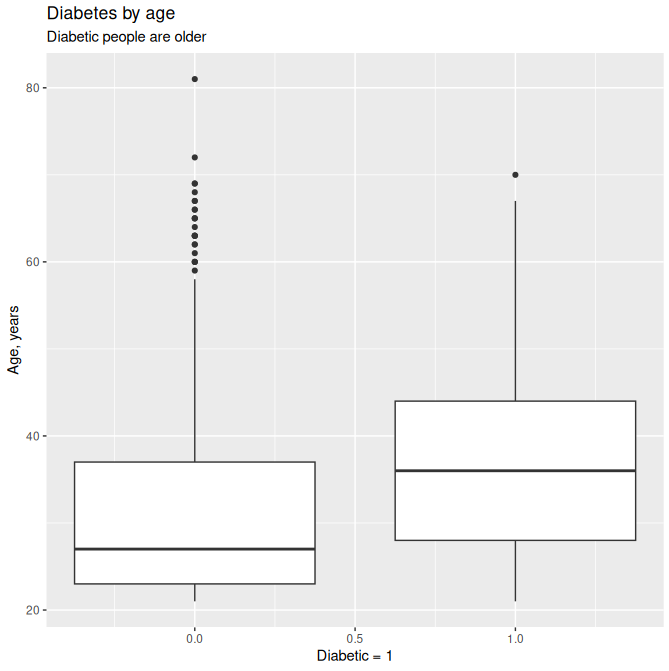
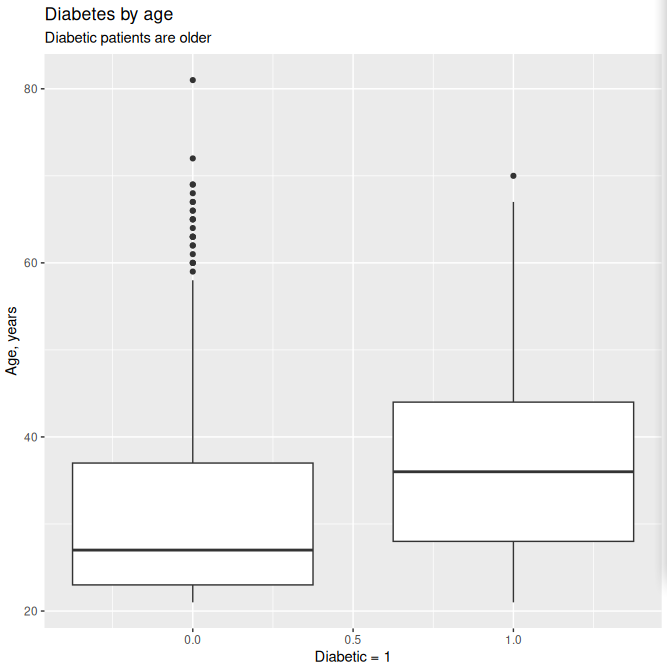
revised assignment

diff --git a/assignment1/assignment1.md b/assignment1/assignment1.md
@@ -8,21 +8,43 @@ The effects of diet on the weight of chicks during early development was investi
 
 There are 578 observations and 4 variables in the dataset:
 
-- There are 2 numeric variables, namely "weight" and "Time". "weight" contains the measured chick's weight in grams. "Time" contains the age of the chick in days since birth.
+- There are 2 numeric variables, namely weight and Time. Weight contains the measured chick's weight in grams. Time contains the age of the chick in days since birth.
 
-- There are 2 factor variables, namely "Chick" and "Diet". "Chick" is an ordered factor with 50 levels, that uniquely identifies each chick with an integer. The factors are ordered by their final weight amongst the other chicks in the same diet group, from lightest to heaviest (note that the factor number does not correspond to it's order). "Diet" is a factor containing 4 levels, specifying the type of diet the chick received.
+- There are 2 nominal variables, namely Chick and Diet. Chick is an ordered factor with 50 levels, that uniquely identifies each chick with an integer. The factors are ordered by their final weight amongst the other chicks in the same diet group, from lightest to heaviest (note that the factor number does not correspond to the chick's order). Diet is a factor containing 4 levels, specifying the type of diet the chick received.
 
 ### 2. _Look at carefully the variable and discuss any inconsistencies dataset has. Explain your reasoning and the steps you have taken._
 
-A few chicks were only measured up to a certain day, and are missing measurement entries, namely chicks 8, 15, 16, 18, and 44. This is an obvious data inconsistency, as these cases are missing observations, and can be explained by chicks dying during the experiment.
+```
+> attach(ChickWeight)
+> table(Time)
+Time
+ 0  2  4  6  8 10 12 14 16 18 20 21 
+50 50 49 49 49 49 49 48 47 47 46 45
+> sort(tapply(Time, Chick, max))
+18 16 15 44  8 13  9 20 10 17 19  4  6 11  3  1 12  2  5 14  7 24 30 22 23 27 
+ 2 12 14 18 20 21 21 21 21 21 21 21 21 21 21 21 21 21 21 21 21 21 21 21 21 21 
+28 26 25 29 21 33 37 36 31 39 38 32 40 34 35 45 43 41 47 49 46 50 42 48 
+21 21 21 21 21 21 21 21 21 21 21 21 21 21 21 21 21 21 21 21 21 21 21 21
+```
 
-These cases should still be included in the analysis, since there is no inaccuracies in the data present in these cases, and they demonstrate an important event in the experiment.
+A few chicks were only measured up to a certain day, and are missing measurement entries, namely chicks 8, 15, 16, 18, and 44. Chick 18 was only measured up to day 2, chick 16 day 12, chick 15 day 14, chick 44 day 18, and chick 8 day 20. This is an obvious data inconsistency, as these cases are missing observations, and can be explained by chicks dying during the experiment.
 
-Another data inconsistency is the time intervals of the experiment, with the final measurement taking place on day 21, leaving a 1 day gap between the previous measurement, whereas all other measurements have a consistent 2 day interval.
+These cases should still be included in the analysis, since they demonstrate an important event in the experiment, and there are no inaccuracies in this incomplete data.
 
-Furthermore, the varible naming scheme is inconsistent, with the weight variable name being fully lowercase, while the other variables are sentence case (Time, Chick, Diet).
+```
+> which(duplicated(ChickWeight))
+integer(0)
+> nrow(ChickWeight) - nrow(ChickWeight[complete.cases(ChickWeight),])
+[1] 0
+```
+No missing data or duplicate records exist.
 
-Other aspects of the dataset were validated, such as Time recordings being integers between 0 and 21, even numbers (unless 21), and no records existing with duplicate Time and Chick measurements. The dataset was also scanned for any fully duplicate records, yielding no duplicates. The minimum and maximum weights of 35g and 375g respectively are plausible weights of a chick. Checking for incomplete cases yielded no results.
+```
+> summary(weight)
+   Min. 1st Qu.  Median    Mean 3rd Qu.    Max. 
+   35.0    63.0   103.0   121.8   163.8   373.0
+```
+The minimum and maximum weights of 35g and 375g respectively are plausible weights of a chick. The distribution of weights appears natural.
 
 ### 3. _Produce appropriate summary statistics and graphs to see any association between variables and discuss._
 
@@ -38,6 +60,7 @@ Other aspects of the dataset were validated, such as Time recordings being integ
                                  (Other):506
 ```
 ```
+> require("psych")
 > describeBy(weight, Diet)
 
  Descriptive statistics by group 
@@ -57,31 +80,41 @@ group: 4
    vars   n   mean    sd median trimmed   mad min max range skew kurtosis   se
 X1    1 118 135.26 68.83  129.5   131.2 84.51  39 322   283  0.4    -0.67 6.34
 ```
+```
+> require("ggplot2")
+> ggplot(ChickWeight, aes(x = Time, y = weight, group = Chick)) + 
+        geom_line(linetype = 1, lwd = 1.1) + 
+        facet_wrap(~ Diet, nrow=4) + 
+        ggtitle("Chick weights over time by diet") +
+        xlab("Time, days since birth") +
+        ylab("Weight, grams")
+```
 
 ![](./plots/Q1_weight_line_plot.png)
 
-The weight of chicks in the dataset ranges from 35g to 373g, and is positively skewed, with a median chick weight of 103g. The variance in Chick weights is negligible towards day 0, but increases dramatically over time as the chicks age, across all diet groups.
+The weight of chicks in the dataset ranges from 35g to 373g, with a median chick weight of 103g. The variance in Chick weights is low towards day 0, yet increases dramatically over time as the chicks age, across all diet groups, resulting a large variance in weights towards the end of the experiment.
 
-There is an indication that "Diet" has an effect on chick's weight during early development. We can deduce that chicks eating Diet 1 tended to be the most malnourished, with the lowest median weight of 88g, and 4 of the 5 deaths ocurring in chicks from this group. Diet 2 chicks were also typically lighter than groups 3 and 4, with a median weight of 104.5g. Numerous chicks in this group lost weight during the experiment, with one chick maintaining a very low weight of approximately 75g.
+Chicks eating Diet 1 tended to be the most malnourished, with the lowest median weight of 88g, and 4 of the 5 deaths ocurring in chicks from this group. Diet 2 chicks were also typically lighter than groups 3 and 4, with a median weight of 104.5g. Numerous chicks in this group lost weight during the experiment, with one chick maintaining a very low weight of approximately 75g.
 
-Conversely, chicks eating Diet 3 or 4 tended to gain the most weight during the experiment, with the highest median weights (125.5g and 129.5g respectively). Despite diet 4 having the highest median weight, a chick from this group died late in the experiment.
+Conversely, chicks eating Diet 3 or 4 tended to gain the most weight during the experiment, with the highest median weights (125.5g and 129.5g respectively). Despite Diet 4 having the highest median weight, chick  44 from this group died late in the experiment, with the last observation of this chick occuring on day 18.
 
 ## Question 2
 
 ### 1. _Read the dataset in R, obtain the structure of the dataset and discuss._
 
 ```
-> str(cleaning)
+> cleaning <- read.csv("Cleaning.csv")
+str(cleaning)
 'data.frame':   101 obs. of  16 variables:
  $ ID     : int  1 2 3 4 5 6 7 8 9 10 ...
  $ AGE    : int  18 23 39 24 27 26 26 26 28 24 ...
- $ GENDER : Factor w/ 2 levels "Female","Male": 2 1 2 2 2 2 1 1 2 1 ...
+ $ GENDER : chr  "Male" "Female" "Male" "Male" ...
  $ YRSTUDY: int  3 7 10 6 16 16 10 8 9 6 ...
  $ Q1     : int  8 15 9 10 10 10 14 12 9 10 ...
  $ Q2     : int  14 21 12 15 20 16 18 17 15 13 ...
  $ Q3     : int  16 20 14 15 21 16 16 11 21 23 ...
- $ Q4     : int  19 23 12 18 24 18 16 9 23 24 ...
- $ Q5     : int  18 19 22 17 25 18 10 17 24 19 ...
+ $ Q4     : chr  "19" "23" "12" "18" ...
+ $ Q5     : chr  "18" "19" "22" "17" ...
  $ Q6     : int  14 16 20 15 23 18 11 10 23 19 ...
  $ Q7     : int  21 20 16 20 29 20 15 18 21 24 ...
  $ Q8     : int  27 22 22 29 26 27 27 21 23 23 ...
@@ -90,50 +123,68 @@ Conversely, chicks eating Diet 3 or 4 tended to gain the most weight during the 
  $ Q11    : int  22 18 23 27 21 25 24 24 26 19 ...
  $ Q12    : int  14 17 15 13 24 14 13 10 22 18 ...
 ```
-The above dataset describes student scores ranked on a scale of 0 to 40 on a series of 12 questions, along with their age, gender, and years of education. The effects of years of study on each question's score varies by age and gender.
+The above dataset describes student scores on a series of 12 questions, on a scale of 0 to 40, along with their age, gender, and years of education. The effects of years of study on each question's score varies by age and gender.
 
 There are 101 observations and 16 variables in the dataset:
 
-- There are 15 numeric variables, namely "ID", "AGE", "YRSTUDY", "Q1", "Q2", "Q3", "Q4", "Q5", "Q6", "Q7", "Q8", "Q9", "Q10", "Q11", and "Q12". "ID" contains a number that identifies the student by an integer. "AGE" contains the student's age in years. "YRSTUDY" contains the current year of education the student is studying in. "Q1" to "Q12" contains the student's received score on the relevant question, on a scale from 0 to 40.
+- There are 13 numeric variables, namely ID, AGE, YRSTUDY, Q1 to Q3, and Q6 to Q12. ID contains a number that identifies the student by an integer. AGE contains the student's age in years. YRSTUDY contains the current year of education the student is studying in. Q1 to Q3 and Q6 to Q12 contains the student's received score on the relevant question, on a scale from 0 to 40.
 
-- There is 1 factor variable, namely "GENDER". This is a factor with two levels, "Male" and "Female", describing the student's gender.
+- There are 3 nominal variables, namely GENDER, Q4, and Q5. GENDER contains two values, namely "Male" and "Female". Q4 and Q5 contain student scores on these questions ranked on a scale of 0 to 40.
 
 ### 2. _Discuss and report any missing values and unusual characters in the dataset._
 
+There is a problem with how Q4 and Q5 were read into the dataframe, as they should be numeric variables instead of nominal. We can search for unexpected characters (not digits) in these questions:
+
+```
+> attach(cleaning)
+> Q4[grep("[^0-9]", Q4)]
+[1] "#NA"
+> Q5[grep("[^0-9]", Q5)]
+[1] "#NA"
+```
+This demonstrates the problem, there are unexpected character values, ("#NA") which cause these variables to be intepreted as character values instead. This can be remedied by converting these scores to integers, whilst converting any values containing special characters to NA (missing values):
+
+```
+> cleaning$Q4 <- as.integer(ifelse(Q4 == "#NA", NA, Q4))
+> cleaning$Q5 <- as.integer(ifelse(Q5 == "#NA", NA, Q5))
+> detach(cleaning)
+attach(cleaning)
+```
+
 ```
 > summary(cleaning)
-       ID           AGE           GENDER      YRSTUDY             Q1       
- Min.   :  1   Min.   :18.00   Female:69   Min.   : 0.000   Min.   : 7.00  
- 1st Qu.: 26   1st Qu.:19.00   Male  :32   1st Qu.: 3.000   1st Qu.: 9.00  
- Median : 51   Median :23.00               Median : 6.000   Median :10.00  
- Mean   : 51   Mean   :23.35               Mean   : 6.634   Mean   :10.94  
- 3rd Qu.: 76   3rd Qu.:26.00               3rd Qu.: 9.000   3rd Qu.:12.00  
- Max.   :101   Max.   :39.00               Max.   :20.000   Max.   :19.00  
-                                                                           
-       Q2              Q3              Q4              Q5        
- Min.   : 9.00   Min.   :10.00   Min.   : 9.00   Min.   : 10.00  
- 1st Qu.:13.00   1st Qu.:15.00   1st Qu.:15.75   1st Qu.: 15.00  
- Median :15.00   Median :18.00   Median :20.00   Median : 18.00  
- Mean   :15.61   Mean   :18.02   Mean   :19.11   Mean   : 19.23  
- 3rd Qu.:19.00   3rd Qu.:21.00   3rd Qu.:23.00   3rd Qu.: 21.00  
- Max.   :28.00   Max.   :30.00   Max.   :30.00   Max.   :120.00  
- NA's   :1                       NA's   :1       NA's   :1       
-       Q6              Q7              Q8              Q9       
- Min.   : 9.00   Min.   :13.00   Min.   :19.00   Min.   :16.00  
- 1st Qu.:13.00   1st Qu.:16.00   1st Qu.:24.00   1st Qu.:24.00  
- Median :16.00   Median :20.00   Median :26.00   Median :26.00  
- Mean   :16.19   Mean   :20.29   Mean   :25.45   Mean   :25.59  
- 3rd Qu.:19.00   3rd Qu.:22.00   3rd Qu.:28.00   3rd Qu.:27.00  
- Max.   :26.00   Max.   :52.00   Max.   :32.00   Max.   :33.00  
-                                                                
-      Q10             Q11             Q12       
- Min.   :22.00   Min.   :13.00   Min.   :10.00  
- 1st Qu.:23.00   1st Qu.:21.00   1st Qu.:15.00  
- Median :24.00   Median :23.00   Median :17.50  
- Mean   :23.73   Mean   :23.01   Mean   :17.61  
- 3rd Qu.:25.00   3rd Qu.:25.00   3rd Qu.:20.00  
- Max.   :26.00   Max.   :52.00   Max.   :26.00  
- NA's   :1       NA's   :1       NA's   :1
+       ID           AGE           GENDER             YRSTUDY      
+ Min.   :  1   Min.   :18.00   Length:101         Min.   : 0.000  
+ 1st Qu.: 26   1st Qu.:19.00   Class :character   1st Qu.: 3.000  
+ Median : 51   Median :23.00   Mode  :character   Median : 6.000  
+ Mean   : 51   Mean   :23.35                      Mean   : 6.634  
+ 3rd Qu.: 76   3rd Qu.:26.00                      3rd Qu.: 9.000  
+ Max.   :101   Max.   :39.00                      Max.   :20.000  
+                                                                  
+       Q1              Q2              Q3              Q4       
+ Min.   : 7.00   Min.   : 9.00   Min.   :10.00   Min.   : 9.00  
+ 1st Qu.: 9.00   1st Qu.:13.00   1st Qu.:15.00   1st Qu.:15.75  
+ Median :10.00   Median :15.00   Median :18.00   Median :20.00  
+ Mean   :10.94   Mean   :15.61   Mean   :18.02   Mean   :19.11  
+ 3rd Qu.:12.00   3rd Qu.:19.00   3rd Qu.:21.00   3rd Qu.:23.00  
+ Max.   :19.00   Max.   :28.00   Max.   :30.00   Max.   :30.00  
+                 NA's   :1                       NA's   :1      
+       Q5               Q6              Q7              Q8       
+ Min.   : 10.00   Min.   : 9.00   Min.   :13.00   Min.   :19.00  
+ 1st Qu.: 15.00   1st Qu.:13.00   1st Qu.:16.00   1st Qu.:24.00  
+ Median : 18.00   Median :16.00   Median :20.00   Median :26.00  
+ Mean   : 19.23   Mean   :16.19   Mean   :20.29   Mean   :25.45  
+ 3rd Qu.: 21.00   3rd Qu.:19.00   3rd Qu.:22.00   3rd Qu.:28.00  
+ Max.   :120.00   Max.   :26.00   Max.   :52.00   Max.   :32.00  
+ NA's   :1                                                       
+       Q9             Q10             Q11             Q12       
+ Min.   :16.00   Min.   :22.00   Min.   :13.00   Min.   :10.00  
+ 1st Qu.:24.00   1st Qu.:23.00   1st Qu.:21.00   1st Qu.:15.00  
+ Median :26.00   Median :24.00   Median :23.00   Median :17.50  
+ Mean   :25.59   Mean   :23.73   Mean   :23.01   Mean   :17.61  
+ 3rd Qu.:27.00   3rd Qu.:25.00   3rd Qu.:25.00   3rd Qu.:20.00  
+ Max.   :33.00   Max.   :26.00   Max.   :52.00   Max.   :26.00  
+                 NA's   :1       NA's   :1       NA's   :1 
 ```
 
 ```
@@ -144,15 +195,15 @@ There are 101 observations and 16 variables in the dataset:
 89 89  24   Male       6 10 NA 11 12 13 15 16 26 21  22  23  13
 93 93  27 Female      11  7  9 12 NA 15 13 15 25 24  NA  22  15
 ```
-
-"Q2", "Q4", "Q5", "Q10", "Q11", and "Q12" contain missing values, totalling 6 NA values.
-
 ```
 > apply(cleaning[seq(5, 16)], 2, max, na.rm=T) 
  Q1  Q2  Q3  Q4  Q5  Q6  Q7  Q8  Q9 Q10 Q11 Q12 
  19  28  30  30 120  26  52  32  33  26  52  26
 ```
-Questions 5, 7 and 11 contain unusually high values, given that the score scale limit was 40 (120, 52, and 52 respectively).
+
+Furthermore, some questions contain unusually high values, given that the score scale was between 0 and 40. Q5 has a 120 score, and Q7 and Q8 each have a 52 score.
+
+Excluding the converted "#NA" values, there were 4 missing values (Q2, Q10, Q11, Q12).
 
 ### 3. _Replace unusual values and missing values if exists, in the dataset with NA._
 
@@ -198,7 +249,7 @@ $Q12
 X1    1 100 17.61 3.21   17.5   17.52 3.71  10  26    16 0.23    -0.28 0.32
 ```
 
-"Q2", "Q4", "Q5", "Q7", "Q10", "Q11", and "Q12" scores are all approximately normally distributed, as their skews are within -0.5 and 0.5 (skew = 0.38, -0.07, 0.18, 0.41, 0.07, 0.17, and 0.23 respectively). Therefore, it is appropriate to impute these missing values with the mean of each variable, such that no bias is introduced to the dataset:
+Q2, Q4, Q5, Q7, Q10, Q11, and Q12 scores are all approximately normally distributed, as their skews are within -0.5 and 0.5 (skew = 0.38, -0.07, 0.18, 0.41, 0.07, 0.17, and 0.23 respectively). Therefore, it is appropriate to impute these missing values with the mean of each variable, such that no bias is introduced to the dataset:
 
 ```
 > cleaning$Q2 <- replace(Q2, is.na(Q2), mean(Q2, na.rm=T))
@@ -250,6 +301,13 @@ From the above frequency table, fuel type D is the least commonly used (20), whe
 
 ### 3. _Obtain a bar plot for the variable “Fuel\_type”_
 
+```
+> df <- data.frame(Fuel=names(t), Frequency=as.vector(t))
+
+> ggplot(df, aes(x=Fuel, y=Frequency)) +
+   geom_bar(stat = "identity") +
+   ggtitle("Frequency of fuel types")
+```
 ![](./plots/Q3_fuel_bar_plot.png)
 
 ### 4. _Obtain mean and standard deviation for the variable“City\_Fuel” based on “Cylinders” and discuss._
@@ -291,7 +349,7 @@ group: 16
 X1    1 2   27 0.28     27      27 0.3 26.8 27.2   0.4    0    -2.75 0.2
 ```
 
-The "City_Fuel" mean consumption by "Cylinders" ranges from 8.52 mpg to 27 mpg. There is a definite positive trend in city fuel consumption and number of cylinders, with each increase in cylinders resulting in a higher mean fuel consumption. Light-duty vehicles with more cylinders tend to consume higher amounts of fuel in the city.
+The City_Fuel mean consumption by Cylinders ranges from 8.52 mpg to 27 mpg. There is a definite positive trend in city fuel consumption and number of cylinders, with each increase in cylinders resulting in a higher mean fuel consumption. Light-duty vehicles with more cylinders tend to consume higher amounts of fuel in the city.
 
 ### 5. _List the records of the vehicles where Smog\_Rating= 7, Transmission=” A6” and Fuel\_type=”Z”_
 
@@ -302,9 +360,17 @@ The "City_Fuel" mean consumption by "Cylinders" ranges from 8.52 mpg to 27 mpg. 
 [11] Smog_Rating 
 <0 rows> (or 0-length row.names)
 ```
+No records were found with this criteria.
 
 ### 6. _Obtain a parallel boxplot for the variable “Emission\_co2” by “Fuel\_type” variable and discuss._
 
+```
+ggplot(fuel, aes(x = Fuel_type, y = Emission_co2)) + 
+        geom_boxplot() + 
+        ggtitle("CO2 emmissions by fuel type") +
+        xlab("Fuel type") +
+        ylab("CO2 emmissions, grams per km")
+```
 ![](./plots/Q3_fuel_type_boxplot.png)
 
 ```
@@ -333,6 +399,14 @@ As seen from the boxplot, fuel type X causes the lowest amount of CO2 emissions,
 Meanwhile, fuel type D has the second highest CO2 emissions, with a median emission of 264.5g/km, and is positively skewed (skew = 1.16), with a single outlier. Fuel type E has the highest CO2 emissions, with a median emission of 298g/gm, and is negatively skewed, (skew = -1.11) with 2 outliers.
 
 ### 7. _Obtain a histogram for variable “Comb\_Fuel” when Transmission = ”A8” and discuss._
+
+```
+ggplot(fuel[Transmission=="A8",], aes(x = Comb_Fuel)) + 
+        geom_histogram(binwidth=1) + 
+        ggtitle("Combined fuel consumption for A8 transmissions") +
+        xlab("Comb_Fuel, mpg") +
+        ylab("Frequency")
+```
 
 ![](./plots/Q3_comb_fuel_histogram.png)
 
@@ -389,10 +463,25 @@ The above dataset describes medical diagnostics from female patients aged 21 yea
 
 There are 768 observations and 9 variables:
 
-- There are 9 numeric variables, namely "Pregnancies", "Glucose", "BloodPressure", "SkinThickness", "Insulin", "BMI", "DiabetesPedigreeFunction", "Age", and "Outcome". "Pregnancies" is the number of times the patient has been pregnant. "Glucose" is the Plasma Glucose concentration in a 2 hour oral glucose tolerance test. "BloodPressure" contains the patient's Diastolic Blood Pressure, measured in mm hg. "SkinThickness" contains the Triceps skin fold thickness in mm. "Insulin" contains the 2 hour serum insulin, measured in mu U/ml. "BMI" contains the Body Mass Index of the patient. "Age" contains the patient's age in years. "DiabetesPedigreeFunction" scores the likelihood the patient has diabetes based on family history. "Outcome" indicates whether the patient has Diabetes, being either 0 or 1.
+- There are 9 numeric variables, namely Pregnancies, Glucose, BloodPressure, SkinThickness, Insulin, BMI, DiabetesPedigreeFunction, Age, and Outcome.
+  - Pregnancies is the number of times the patient has been pregnant. 
+  - Glucose is the Plasma Glucose concentration in a 2 hour oral glucose tolerance test.
+  - BloodPressure contains the patient's Diastolic Blood Pressure, measured in mm hg.
+  - SkinThickness contains the Triceps skin fold thickness in mm. 
+  - Insulin contains the 2 hour serum insulin, measured in mu U/ml.
+  - BMI contains the Body Mass Index of the patient.
+  - Age contains the patient's age in years.
+  - DiabetesPedigreeFunction scores the likelihood the patient has diabetes based on family history. "Outcome" indicates whether the patient has Diabetes, being either 0 or 1.
 
-The effects of age on whether Pima Indian women aged 21 years or older are diabetic varies by number of pregnancies, Plasma Glucose concentration, blood pressure, skin thickness, insulin levels, BMI, and family history.
+The effects of age on whether Pima Indian women aged 21 years or older are diabetic varies by number of pregnancies, Plasma Glucose concentration, blood pressure, insulin levels, BMI, and family history.
 
+```
+ggplot(diabetes, aes(y = Age, group = Outcome, x = Outcome)) + 
+        geom_boxplot() +
+        ggtitle("Diabetes by age", subtitle = "Diabetic patients are older") +
+        xlab("Diabetic = 1") +
+        ylab("Age, years")
+```
 ![](./plots/Q4_age_diabetes_boxplot.png)
 
 ```
@@ -409,7 +498,13 @@ X1    1 268 37.07 10.97     36   36.28 11.86  21  70    49 0.58    -0.38 0.67
 ```
 From the above boxplot, diabetic patients have the higher median age of 36 years old, with a slight positive skew (skew = 0.58). Meanwhile, non-diabetic patients have a median age of 27 years of age, and are more positively skewed (skew = 1.56). There are many non-diabetic outliers. Both plots have a similar variance.
 
-
+```
+ggplot(diabetes, aes(x = Outcome, group = Outcome, y = Glucose)) +
+        geom_boxplot() +
+        ggtitle("Glucose vs Diabetes", subtitle = "Diabetic patients have higher glucose levels") +
+        xlab("Diabetic = 1") +
+        ylab("Glucose concentration")
+```
 ![](./plots/Q4_glucose_diabetes_boxplot.png)
 
 ```
@@ -427,6 +522,14 @@ X1    1 268 141.26 31.94    140  141.69 35.58   0 199   199 -0.49     1.35 1.95
 
 Diabetic patients also have higher "Glucose", with a median concentration of 140, and an approximately normal distribution (skew = -0.49). 
 
+```
+ggplot(diabetes, aes(x = Age, y = Glucose)) +
+        geom_point() +
+        facet_wrap(~ Outcome, nrow = 1) +
+        ggtitle("Glucose concentration by age and Diabetes", subtitle="Group 1 (Diabetic) have higher glucose levels") +
+        xlab("Age, years") +
+        ylab("Glucose concentration")
+```
 ![](./plots/Q4_glucose_age_scatter.png)
 
 Ultimately, the diabetes "Outcome" for Pima Indian women aged 21 years or older can be best described by "Glucose" concentration and "Age". Older patients with higher Glucose concentration levels are more likely to have diabetes.
